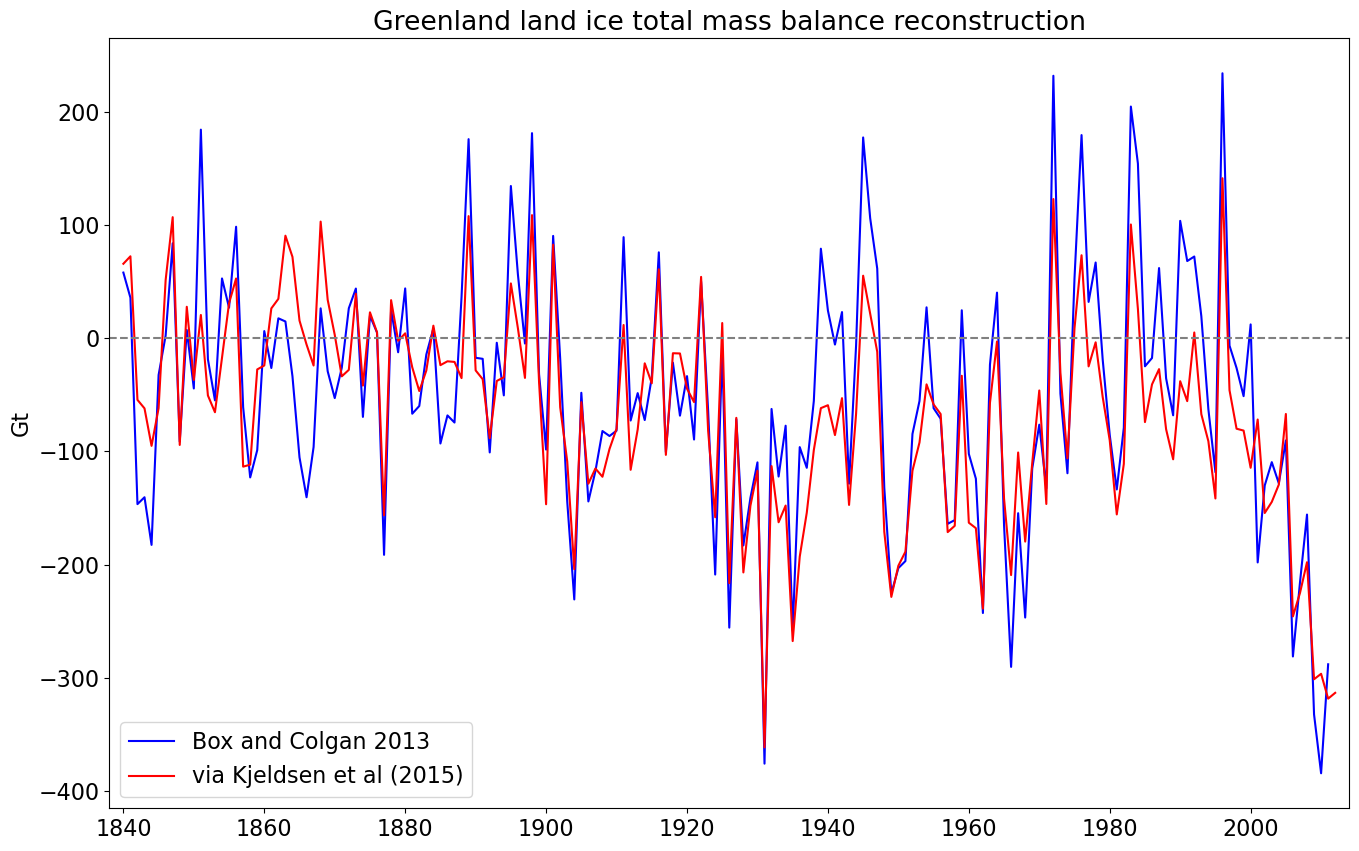
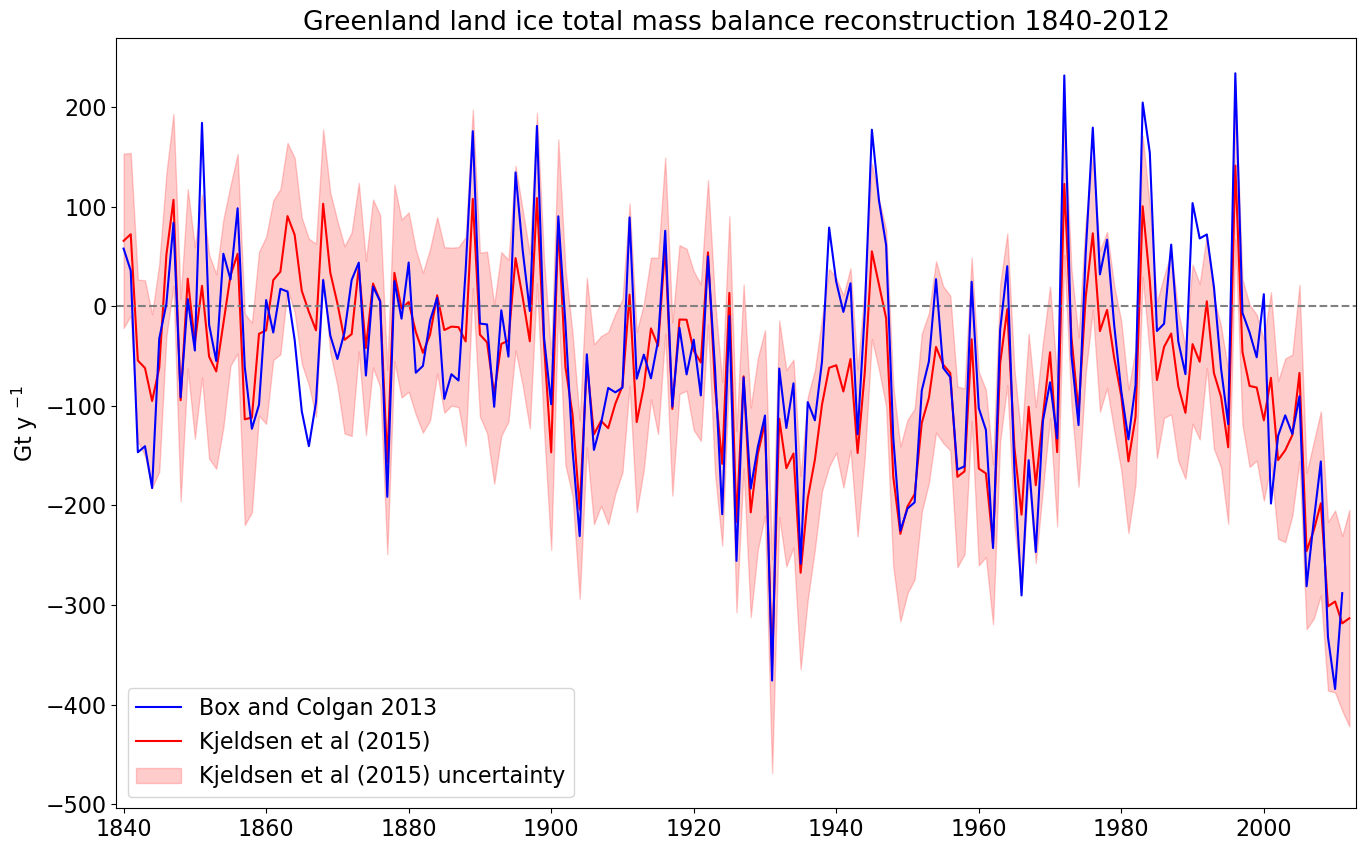
update

diff --git a/plot_timeseries_TMB_1840-2012.py b/plot_timeseries_TMB_1840-2012.py
@@ -29,7 +29,7 @@ plt.title('Greenland land ice total mass balance reconstruction 1840-2012')
 plt.plot(dfBC.Year,dfBC.TMB,c='b',label='Box and Colgan 2013')
 plt.plot(df.year,df.TMB,c='r',label='via Kjeldsen et al (2015)')
 plt.axhline(y=0,linestyle='--',c='grey',)
-plt.ylabel('Gt')
+plt.ylabel('Gt / y')
 plt.xlim(1838,2014)
 plt.legend(loc=3)
 

diff --git a/README.md b/README.md
@@ -1,6 +1,8 @@
 # Greenland land ice total mass balance reconstruction 1840-2012
-An empirical modeling of Greenland land ice total mass balance reconstruction appears in Box and Colgan (2013) and is updated in Kjeldsen et al (2015).
+An empirical reconstruction of Greenland land ice total mass balance (TMB) appears in Box and Colgan (2013) and is updated in Kjeldsen et al (2015). Input data are described in Box (2013). Solid ice discharge is estimated via a fit of unsmoothed solid ice discharge (SID) data from Rignot et al (2008, 2011) with Box (2013) runoff data having 13-year gaussian smoothing. Box and Colgan (2013) Fig. 2 illustrates where 13 year smoothing hits a sill. The reconstruction was improved and regarding annual TBM, annual SID was estimated from a 6 year trailing gaussian fit, described and applied in Kjeldsen et al (2015)
 
+# Works Cited
+- Box, J. E.: Greenland Ice Sheet Mass Balance Reconstruction. Part II: Surface Mass Balance (1840–2010)*, Journal of Climate, 26(18), 6974–6989, doi:10.1175/jcli-d-12-00518.1, 2013.
 - Box, J. E. and Colgan, W.: Greenland Ice Sheet Mass Balance Reconstruction. Part III: Marine Ice Loss and Total Mass Balance (1840–2010), Journal of Climate, 26(18), 6990–7002, doi:10.1175/jcli-d-12-00546.1, 2013.
 - Kjeldsen, K. K., Korsgaard, N. J., Bjørk, A. A., Khan, S. A., Box, J. E., Funder, S., Larsen, N. K., Bamber, J. L., Colgan, W., van den Broeke, M., Siggaard-Andersen, M.-L., Nuth, C., Schomacker, A., Andresen, C. S., Willerslev, E. and Kjær, K. H.: Spatial and temporal distribution of mass loss from the Greenland Ice Sheet since AD 1900, Nature, 528(7582), 396–400, doi:10.1038/nature16183, 2015.
 
@@ -8,10 +10,13 @@ Data are organized in two .csv files:
 - Greenland_mass_balance_1840-2011_Box_and_Colgan_2013.txt
 - Greenland_mass_balance_totals_1840-2012_ver_20141130_with_uncert_via_Kjeldsen_et_al_2015.csv
 
-Notes
+# Notes
 - Units are Gt
 - Solid Ice Discharge is what Box and Colgan (2013) call Marine Ice Loss. 
 - TMB is total mass balance.
 - uncertainties are given in the
 
 ![](plot_timeseries_TMB_1840-2012.png)
+
+# Misc
+Each of the reconstructions (Box and Colgan 2013; via Kjeldsen et al 2015) have monthly 5 km gridded Accumulation, Retention, Runoff, Accumulation that have been validated in Fettweis SMBMIP
